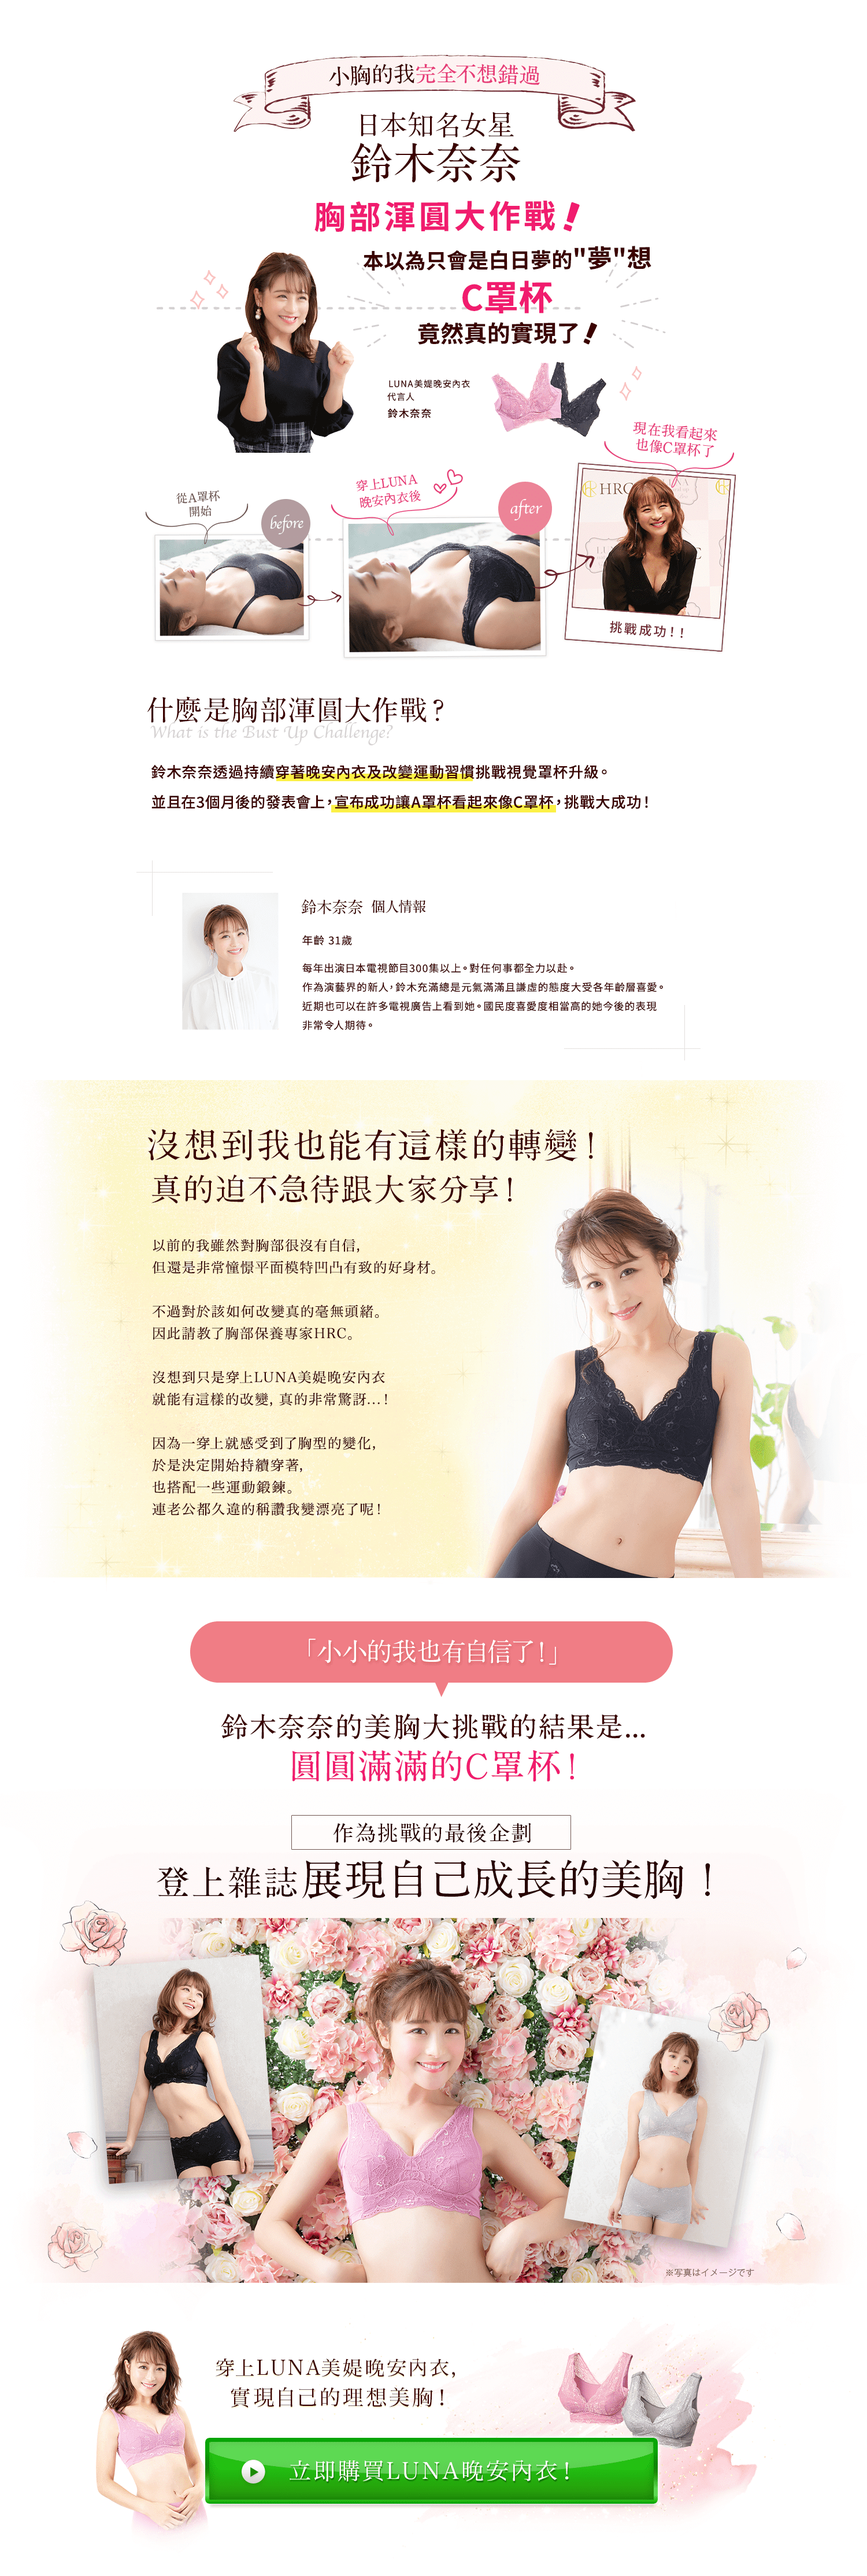
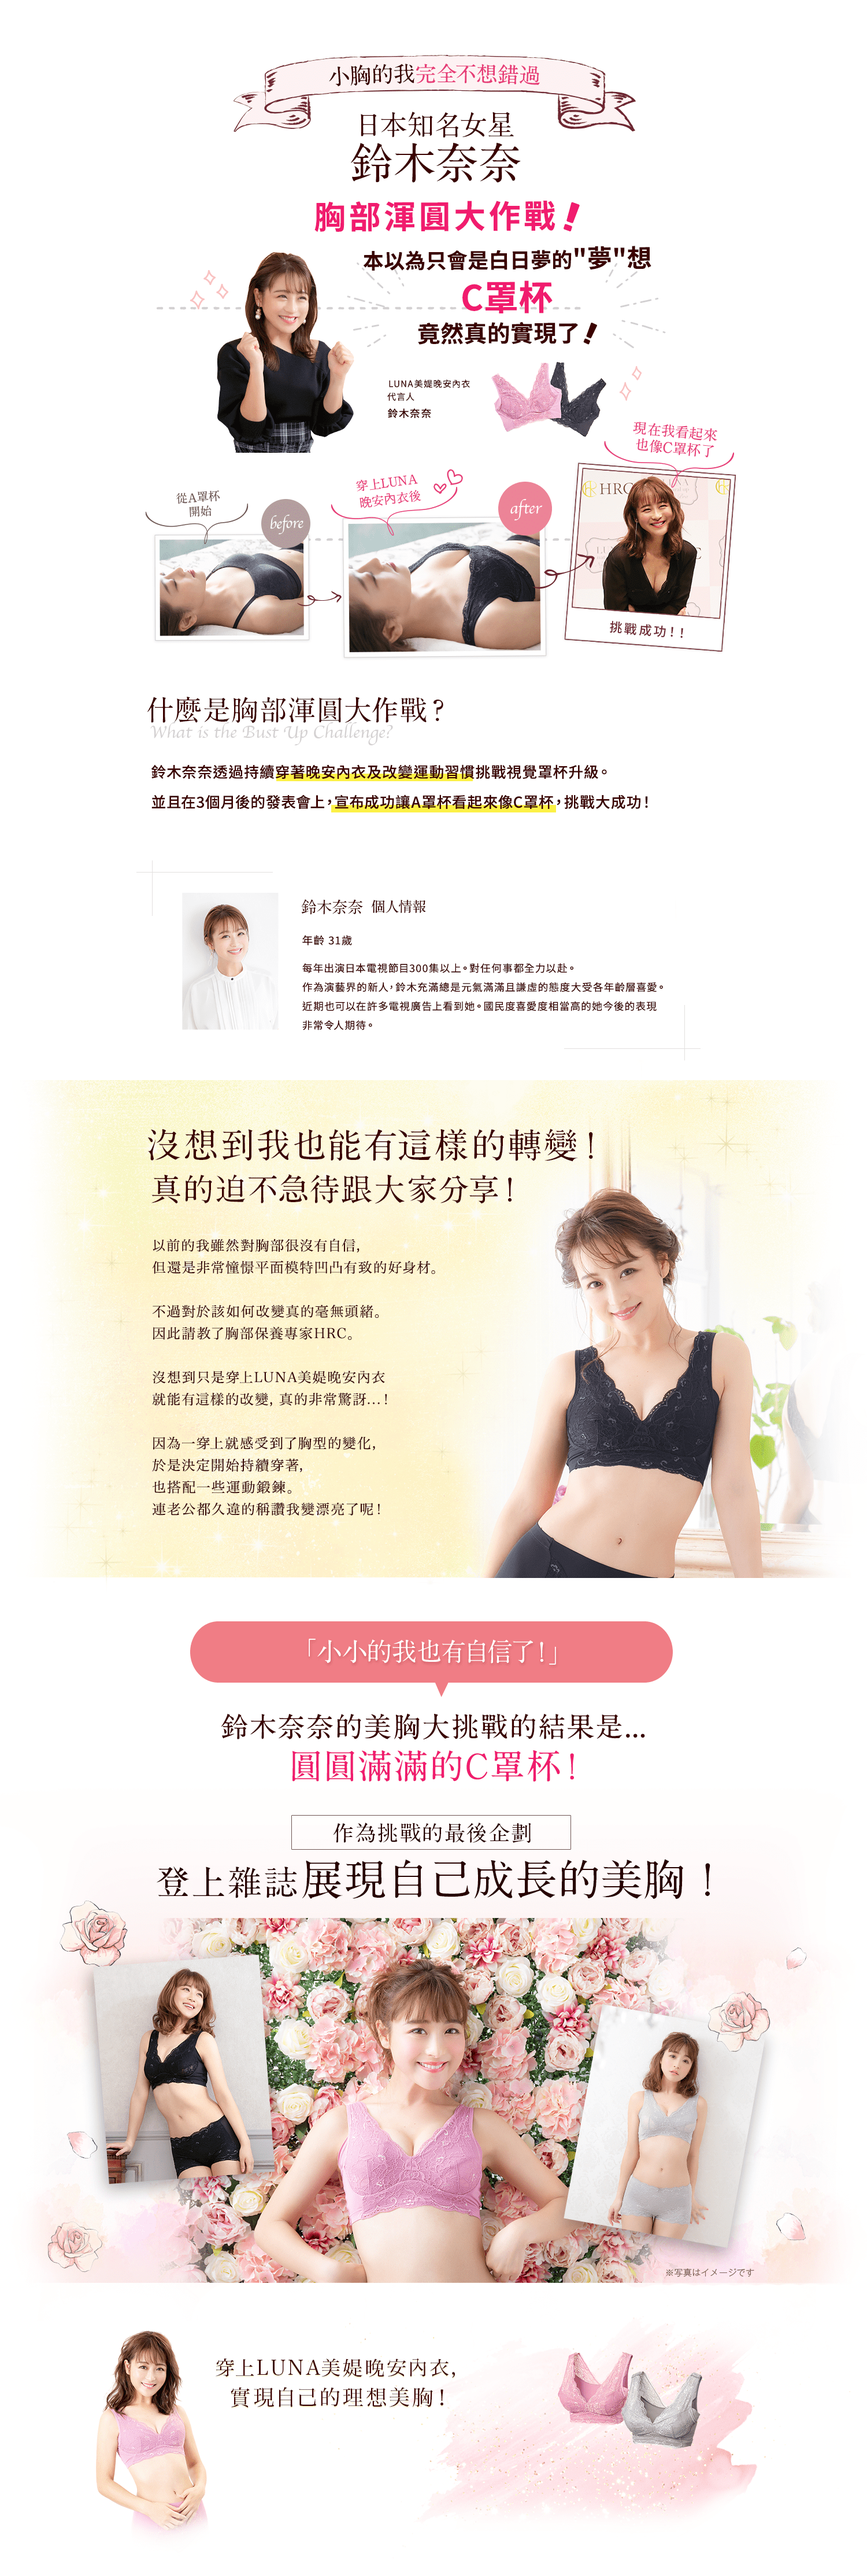
20210114_add nana btn

Changed region(s): [[0.2147, 0.936, 0.7667, 0.9984]]

diff --git a/index.html b/index.html
@@ -153,7 +153,12 @@
                             </div>
                         </div>
                     </section> <img src="./img/08_4points.png" alt="">
-                    <img src="./img/nana2.png" alt="">
+                    <div class="nana2">
+                        <img src="./img/nana2.png" alt="">
+                        <a href="#buy">
+                            <img src="img/btn/nana_btn.png" class="nana_btn" alt="">
+                        </a>
+                    </div>
                     <img src="./img/09_care.png" alt="">
                     <section class="allset_bg pt-5">
                         <div class="PC">
@@ -260,7 +265,9 @@
                         </a>
                     </div>
                     <img src="./img/SP/SP_08_4points.png" alt="">
-                    <img src="./img/SP/SP_nana2.png" alt="">
+                    <a href="#buy">
+                        <img src="./img/SP/SP_nana2.png" alt="">
+                    </a>
                     <img src="./img/SP/SP_09_care.png" alt="">
                     <div class="offer_SP">
                         <a href="#buy">
@@ -323,7 +330,7 @@
                                 <img id="ig" src="img/s_ig.png" alt="" class="lozad">
                             </a></li>
                         <li>
-                            <a href="https://lin.ee/zM1BxZk">
+                            <a href="https://lin.ee/zM1BxZk" target="blank">
                                 <img src="https://scdn.line-apps.com/n/line_add_friends/btn/zh-Hant.png" alt="加入好友"
                                     height="56" border="0">
                             </a>

diff --git a/css/style.css b/css/style.css
@@ -83,8 +83,17 @@ html,body {
 .PC .set0_btn:hover{
     opacity: 0.8;
 }
-@media screen and (max-width: 768px){
-    
+.PC .nana2{
+    position: relative;
+}
+.PC .nana_btn{
+    position: absolute;
+    bottom: 1.5%;
+    right: 17%;
+    width: 803px;
+}
+.PC .nana_btn:hover{
+    opacity: 0.8;
 }
 
 .sns_btn {
